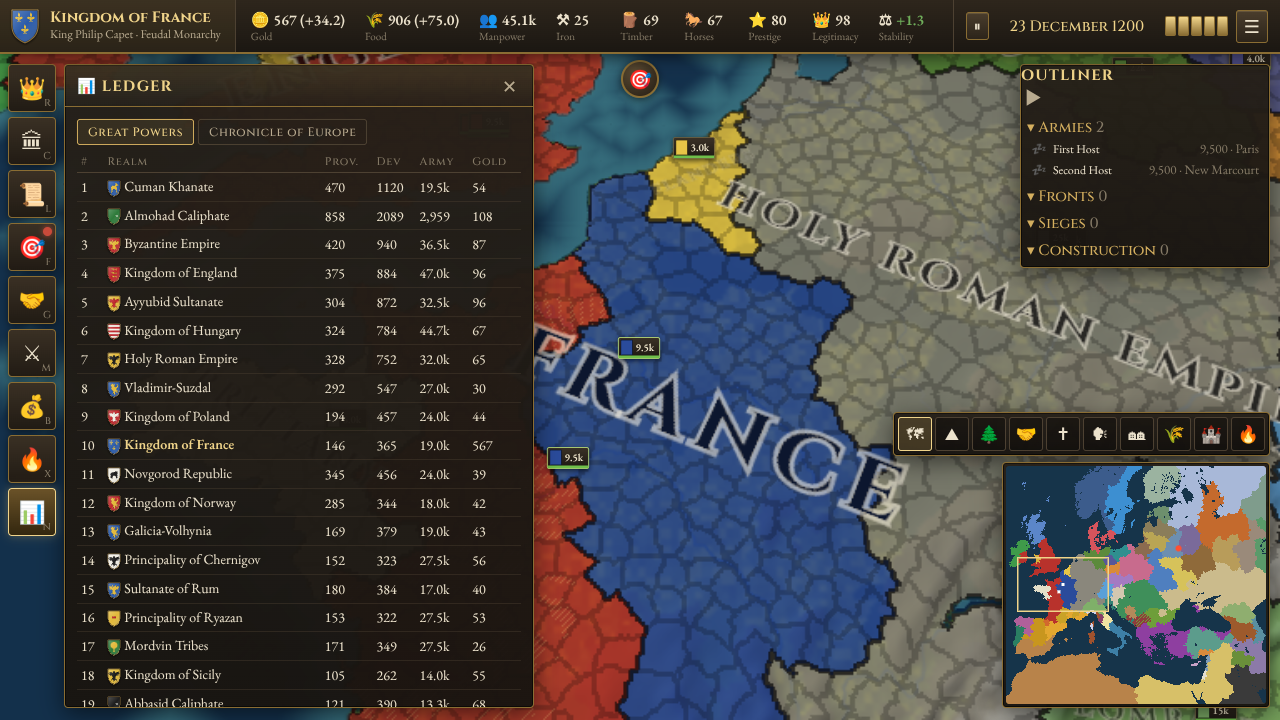
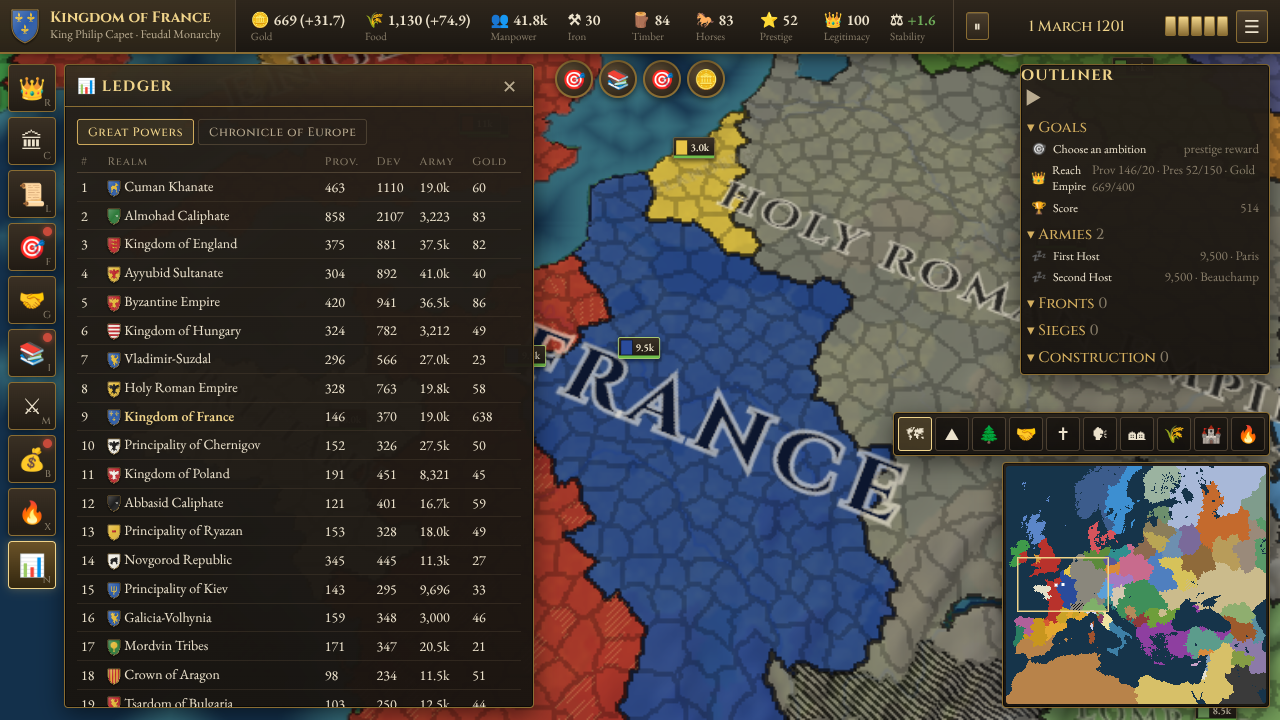
ui: Goals section in outliner, alerts for ambition, crowning and idle treasury (#60, #63, #62)
Claude-Session: https://claude.ai/code/session_019CTu55ApA85fi1aN9DWGru

diff --git a/conquest/js/ui/outliner.js b/conquest/js/ui/outliner.js
@@ -7,7 +7,7 @@ export const OutlinerMixin = {
     this.outEl = el('div', { id: 'outliner', class: 'frame' });
     this.root.append(this.outEl);
     this._outKey = null;
-    this._outOpen = this._outOpen || { Armies: true, Fronts: true, Sieges: true, Construction: true };
+    this._outOpen = this._outOpen || { Goals: true, Armies: true, Fronts: true, Sieges: true, Construction: true };
     this.root.classList.toggle('out-closed', !!this._outCollapsed);
   },
   outlinerData() {
@@ -30,12 +30,20 @@ export const OutlinerMixin = {
     const cons = [];
     for (const r of s.recruit) if (r.nation === nid) cons.push({ p: r.prov, icon: '⚔', name: `Muster: ${r.template.name}`, left: Math.ceil(r.days), where: pn(r.prov) });
     for (const p of g.ownedProvinces(nid)) for (const q of s.prov[p].queue) cons.push({ p, icon: '🔨', name: String(q.type), left: Math.ceil(q.days), where: pn(p) });
-    return { armies, frs, sieges, cons };
+    const goals = [], pg = n.prog;
+    if (pg) {
+      const am = g.ambitionProgress(nid), ri = g.rankInfo(nid);
+      if (am) goals.push({ icon: am.def.icon, label: am.def.name, right: `${Math.min(am.value, am.goal)}/${am.goal} · ${Math.max(0, Math.round(am.daysLeft / 30))}mo`, tab: 'progress' });
+      else goals.push({ icon: '🎯', label: pg.ambCool > 0 ? 'Ambition: court is resting' : 'Choose an ambition', right: pg.ambCool > 0 ? `${pg.ambCool}mo` : 'prestige reward', tab: 'progress', hot: pg.ambCool <= 0 });
+      if (!ri.maxed) goals.push({ icon: '👑', label: ri.ok ? `Crown the ${ri.next}!` : `Reach ${ri.next}`, right: ri.ok ? 'ready' : ri.checks.map((c) => `${c[0].slice(0, 4)} ${c[1]}/${c[2]}`).join(' · '), tab: 'progress', hot: ri.ok });
+      goals.push({ icon: '🏆', label: 'Score', right: String(g.nationScore(nid)), tab: 'progress' });
+    }
+    return { armies, frs, sieges, cons, goals };
   },
   updateOutliner() {
     if (!this.outEl || !this.P) return;
     const D = this.outlinerData();
-    const key = JSON.stringify([D.armies.map((a) => [a.id, a.st, a.loc, Math.round(a.men / 10)]), D.frs.map((f) => [f.id, f.n, f.mode]), D.sieges.map((x) => [x.p, x.ours, Math.floor(x.prog)]), D.cons.map((c) => [c.name, c.left, c.p]), this._outOpen, this._outCollapsed, this.selArmies]);
+    const key = JSON.stringify([D.goals, D.armies.map((a) => [a.id, a.st, a.loc, Math.round(a.men / 10)]), D.frs.map((f) => [f.id, f.n, f.mode]), D.sieges.map((x) => [x.p, x.ours, Math.floor(x.prog)]), D.cons.map((c) => [c.name, c.left, c.p]), this._outOpen, this._outCollapsed, this.selArmies]);
     if (key === this._outKey) return;
     this._outKey = key;
     const E = this.outEl;
@@ -53,6 +61,7 @@ export const OutlinerMixin = {
       if (open) for (const r of rows) body.append(r);
     };
     const row = (icon, label, right, fn, cls = '') => el('div', { class: 'orow ' + cls, onclick: fn }, el('span', { class: 'oi' }, icon), el('span', { class: 'grow' }, label), el('span', { class: 'muted small' }, right));
+    if (D.goals.length) sec('Goals', '', D.goals.map((x) => row(x.icon, x.label, x.right, () => this.openTab(x.tab), x.hot ? 'idle' : '')));
     sec('Armies', D.armies.length, D.armies.map((a) => row(a.icon, a.name, `${fmt(a.men)} · ${a.where}`, () => this.selectArmies([a.id], true), (a.st === 'idle' ? 'idle ' : '') + (this.selArmies.includes(a.id) ? 'sel' : ''))));
     sec('Fronts', D.frs.length, D.frs.map((f) => row('🛡', `vs ${f.name}`, `${f.n} armies · ${f.mode}`, () => this.openTab('military'))));
     sec('Sieges', D.sieges.length, D.sieges.map((x) => row(x.ours ? '🏰' : '🔥', x.name, x.ours ? `besieging ${Math.floor(x.prog)}%` : 'under siege', () => { this.selectProvince(x.p); this.v.flyToProvince(x.p); }, x.ours ? '' : 'bad')));

diff --git a/conquest/js/ui/alerts.js b/conquest/js/ui/alerts.js
@@ -12,6 +12,9 @@ export const AlertsMixin = {
     if (s.peaceOffers?.length) A.push(['peace', '🕊', 'Peace offer received', () => this.openTab('wars'), true, s.peaceOffers.length]);
     if (!n.focus.cur && g.focusTree(n.id).some((f) => g.focusStatus(n.id, f) === 'available')) A.push(['focus', '🎯', 'A national focus is available', () => this.openTab('focus'), false]);
     if (n.prog && !n.prog.cur && s.day > 30 && g.hasResearchOptions(n.id)) A.push(['research', '📚', 'Nothing is being researched — choose an innovation', () => this.openTab('progress'), false]);
+    if (n.prog && !n.prog.amb && n.prog.ambCool <= 0 && s.day > 30) A.push(['ambition', '🎯', 'Your ruler has no ambition — choose one for a prestige reward', () => this.openTab('progress'), false]);
+    if (n.prog && g.rankInfo(n.id).ok) A.push(['crown', '👑', `You can be crowned ${g.rankInfo(n.id).next}`, () => this.openTab('progress'), false]);
+    if (s.day > 60 && n.gold > 400 && n.gold > 6 * Math.max(10, (this._budget?.net ?? 0))) A.push(['spend', '🪙', 'Treasury is idle — build, hire, or fund something', () => this.openTab('economy'), false]);
     const atWar = g.warsOf(n.id).length > 0;
     const idle = atWar ? g.armiesOf(n.id).filter((a) => !a.path.length && !a.battle && !s.prov[a.loc]?.siege && !g.frontsOf(n.id).some((f) => f.armies.includes(a.id))) : [];
     if (idle.length) A.push(['idle', '💤', `${idle.length} idle army(ies) while at war`, () => this.selectArmies([idle[0].id], true), false, idle.length]);
@@ -27,7 +30,7 @@ export const AlertsMixin = {
     const rebels = Object.values(s.armies).filter((a) => a.nation < 0 && a.rebelOf === n.id);
     if (rebels.length) A.push(['rebels', '🏴', 'Rebels are loose in the realm', () => this.v.flyToProvince(rebels[0].loc), true]);
     if (!n.lawVote && n.prestige > 40 && this.s.day > 60 && this.s.day % 365 < 3) A.push(['law', '📜', 'Consider reforming the laws', () => this.openTab('laws'), false]);
-    const tabOf = { research: 'progress', focus: 'focus', council: 'court', law: 'laws', peace: 'wars', gold: 'economy', food: 'economy', idle: 'military', general: 'military' };
+    const tabOf = { research: 'progress', ambition: 'progress', crown: 'progress', spend: 'economy', focus: 'focus', council: 'court', law: 'laws', peace: 'wars', gold: 'economy', food: 'economy', idle: 'military', general: 'military' };
     const tabs = new Set(A.map((a) => tabOf[a[0]]).filter(Boolean));
     for (const t of this.tabsEl.children) {
       const on = tabs.has(t.id.slice(4)), d = t.querySelector('.dot');
